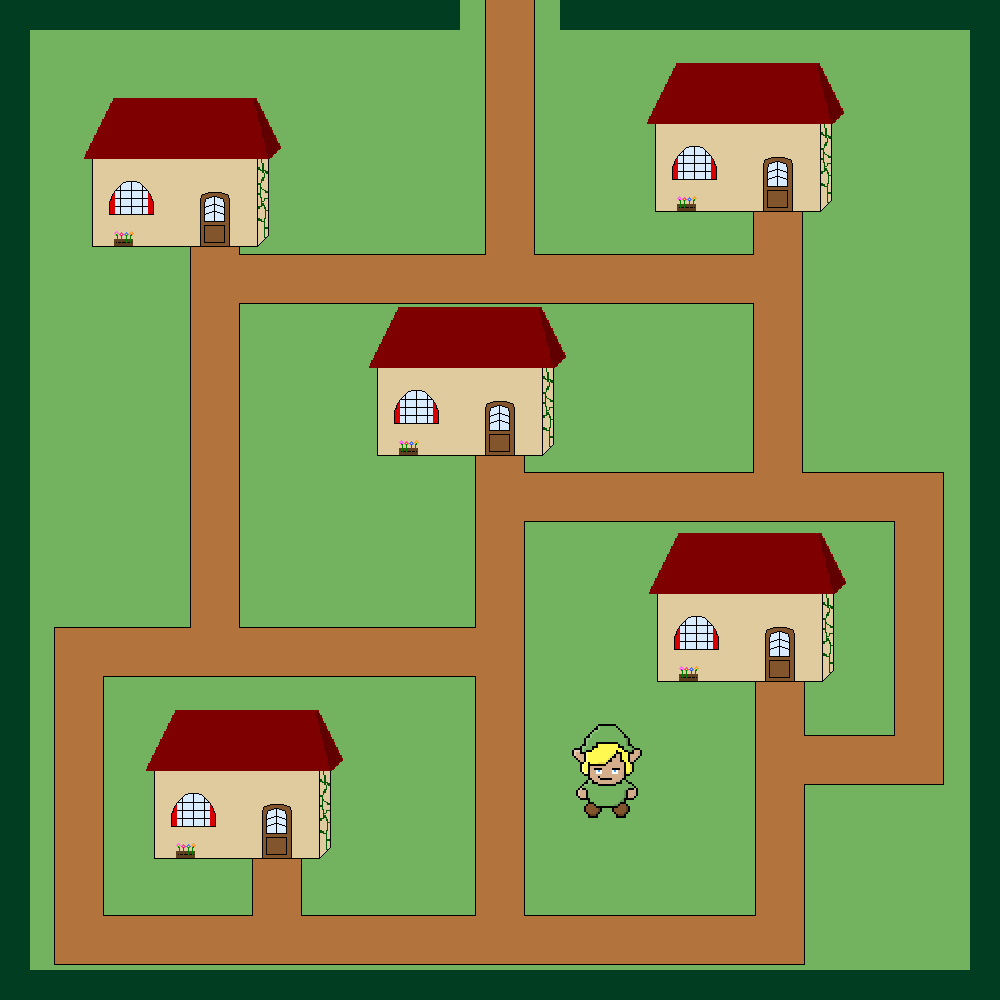
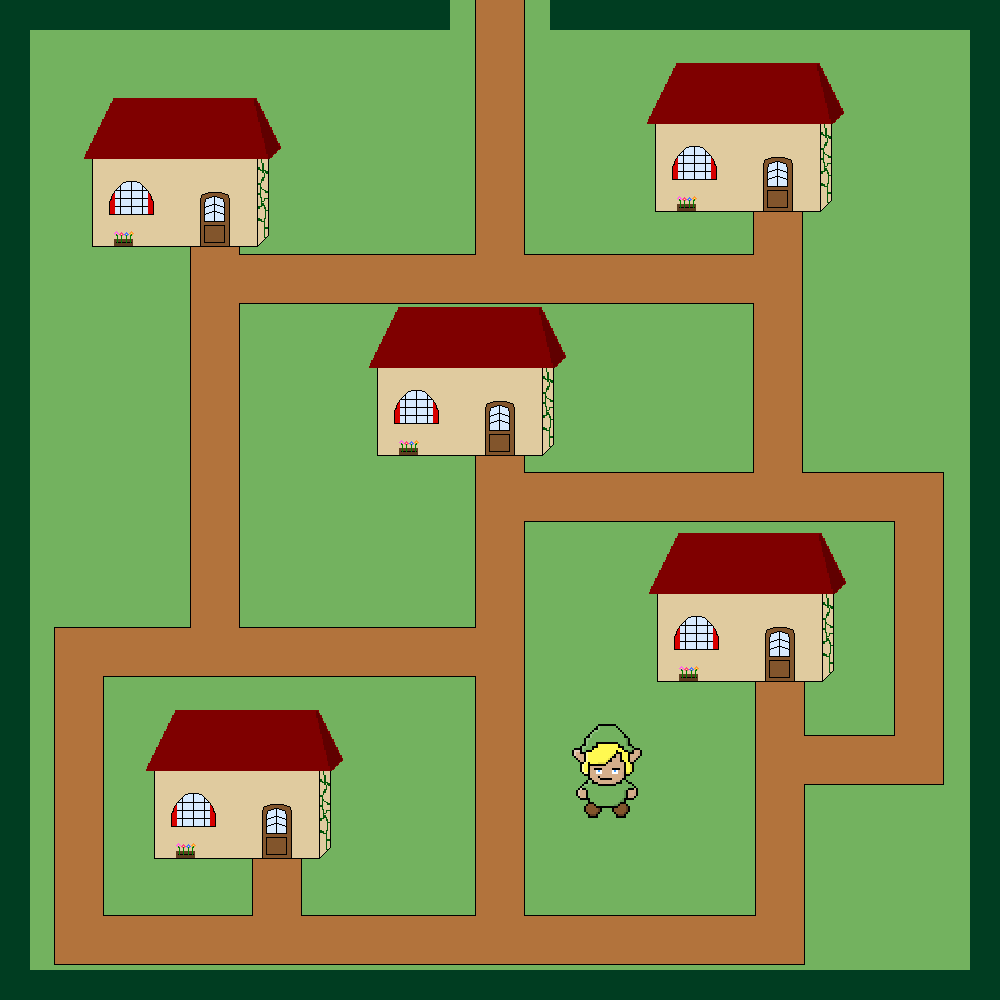
add of tp in intersection and left_path

Changed region(s): [[0.434, 0.0, 0.496, 0.248], [0.527, 0.0, 0.558, 0.248]]

diff --git a/Code/map/map.py b/Code/map/map.py
@@ -9,6 +9,8 @@ class Map :
     def __init__(self):
         self.bedroom = Bedroom()
         self.first_village = First_Village()
+        self.intersection = Intersection()
+        self.left_path = Left_path()
         self.current_map = self.bedroom._get_tile()
         self.name_current_map = 'bedroom'
     
@@ -25,6 +27,12 @@ class Map :
 
         elif name == 'first_village' :
             self.current_map = self.first_village._get_tile()
+
+        elif name == 'intersection' :
+            self.current_map = self.intersection._get_tile()
+            
+        elif name == 'left_path' :
+            self.current_map = self.left_path._get_tile()
     
 
 class Bedroom() : 
@@ -68,20 +76,78 @@ class First_Village() :
 
     def _create_map(self):
         house = pygame.transform.scale(self.object.invisible_wall, (170,140))
-        top_bordure = pygame.transform.scale(self.object.invisible_wall, (500,1))
-        side_bordure = pygame.transform.scale(self.object.invisible_wall, (1,500))
+        top_bordure = pygame.transform.scale(self.object.invisible_wall, (450, 30))
+        bot_bordure = pygame.transform.scale(self.object.invisible_wall, (1000, 30))
+        side_bordure = pygame.transform.scale(self.object.invisible_wall, (30, 1000))
         self.tile._add_solid_walls('house', 90, 70, house)                      #top left
         self.tile._add_solid_walls('house', 670, 40, house)                     #top right
         self.tile._add_solid_walls('house', 390, 280, house)                    #middle
         self.tile._add_solid_walls('house', 160, 690, house)                    #bot left
         self.tile._add_solid_walls('house', 670, 520, house)                    #bot right
-        self.tile._add_solid_walls('top_bordure', 30, 30, top_bordure)
-        self.tile._add_solid_walls('bot_bordure', 30, 970, top_bordure)
-        self.tile._add_solid_walls('left_bordure', 30, 30, side_bordure)
-        self.tile._add_solid_walls('right_bordure', 970, 30, side_bordure)
+        self.tile._add_solid_walls('top_bordure', 0, 0, top_bordure)
+        self.tile._add_solid_walls('top_bordure', 550, 0, top_bordure)
+        self.tile._add_solid_walls('bot_bordure', 0, 970, bot_bordure)
+        self.tile._add_solid_walls('left_bordure', 0, 0, side_bordure)
+        self.tile._add_solid_walls('right_bordure', 970, 0, side_bordure)
 
     def _get_name_map(self) : 
         return self.name
     
     def _get_tile(self):
+        return self.tile
+    
+class Intersection() :
+    def __init__(self):
+        self.name = 'intersection'
+        self.surf = pygame.image.load("Images/Chemin_milieu.png").convert_alpha()
+        self.camera = Camera(900, 600, 1000, 1000)
+        self.tile = Tile(self.surf, self.camera)
+        self.object = Object()
+        self._create_map()
+
+    def _create_map(self):
+        top_bordure = pygame.transform.scale(self.object.invisible_wall, (415, 30))
+        side_bordure = pygame.transform.scale(self.object.invisible_wall, (30, 415))
+        self.tile._add_solid_walls('top_bordure', 0, 0, top_bordure)
+        self.tile._add_solid_walls('top_bordure', 585, 0, top_bordure)
+        self.tile._add_solid_walls('bot_bordure', 0, 970, top_bordure)
+        self.tile._add_solid_walls('bot_bordure', 585, 970, top_bordure)
+        self.tile._add_solid_walls('left_bordure', 0, 0, side_bordure)
+        self.tile._add_solid_walls('left_bordure', 0, 585, side_bordure)
+        self.tile._add_solid_walls('right_bordure', 970, 0, side_bordure)
+        self.tile._add_solid_walls('right_bordure', 970, 585, side_bordure)
+
+    def _get_name_map(self) : 
+        return self.name
+    
+    def _get_tile(self):
+        return self.tile
+    
+class Left_path() :
+     def __init__(self):
+        self.name = 'left_path'
+        self.surf = pygame.image.load("Images/Coin_gauche.png").convert_alpha()
+        self.camera = Camera(900, 600, 1000, 1000)
+        self.tile = Tile(self.surf, self.camera)
+        self.object = Object()
+        self._create_map()
+    
+     def _create_map(self):
+        top_bordure_1 = pygame.transform.scale(self.object.invisible_wall, (148, 30))
+        top_bordure_2 = pygame.transform.scale(self.object.invisible_wall, (682, 30))
+        left_bordure = pygame.transform.scale(self.object.invisible_wall, (30, 1000))
+        bot_bordure = pygame.transform.scale(self.object.invisible_wall, (1000, 30))
+        right_bordure_1 = pygame.transform.scale(self.object.invisible_wall, (30, 160))
+        right_bordure_2 = pygame.transform.scale(self.object.invisible_wall, (30, 670))
+        self.tile._add_solid_walls('top_bordure', 0, 0, top_bordure_1)
+        self.tile._add_solid_walls('top_bordure', 318, 0, top_bordure_2)
+        self.tile._add_solid_walls('left_bordure', 0, 0, left_bordure)
+        self.tile._add_solid_walls('left_bordure', 0, 970, bot_bordure)
+        self.tile._add_solid_walls('right_bordure', 970, 840, right_bordure_1)
+        self.tile._add_solid_walls('right_bordure', 970, 0, right_bordure_2)
+
+     def _get_name_map(self) : 
+        return self.name
+    
+     def _get_tile(self):
         return self.tile

diff --git a/Code/map/teleportation.py b/Code/map/teleportation.py
@@ -10,17 +10,32 @@ class Teleportation :
             if 396 < player._get_pos(0) < 509 and player._get_pos(1) == 510 :
                 map._set_current_map('first_village')
                 player._set_pos(490, 500)  
-                screen.fill((0, 0, 0))
-                screen.blit(self.font.render("Chargement...", True, (255, 255, 255)), (100, 500)) 
-                pygame.display.flip()
-                pygame.time.delay(1000)
+                self._chargement(screen)
+                
 
         if map._get_name_current_map() == 'first_village' :
             if 495 <= player._get_pos(0) <= 510 and player._get_pos(1) == 470 :
                 map._set_current_map('bedroom')
                 player._set_pos(450, 480)
-                screen.fill((0, 0, 0))
-                screen.blit(self.font.render("Chargement...", True, (255, 255, 255)), (100, 500)) 
-                pygame.display.flip()
-                pygame.time.delay(1000)
+                self._chargement(screen)
+
+            elif player._get_pos(0) == 500 and player._get_pos(1) >= -15 :
+                map._set_current_map('intersection')
+                player._set_pos(500, 980)
+                self._chargement(screen)
+
+
+        if map._get_name_current_map() == 'intersection' :
+            if  0 <= player._get_pos(0) <= 33 and 430 <= player._get_pos(1) <= 570 :
+                map._set_current_map('left_path')
+                player._set_pos(962, 755)
+                self._chargement(screen)
+                
+
+    def _chargement(self, screen) : 
+        screen.fill((0, 0, 0))
+        screen.blit(self.font.render("Chargement...", True, (255, 255, 255)), (100, 500)) 
+        pygame.display.flip()
+        pygame.time.delay(1000)
+
 
